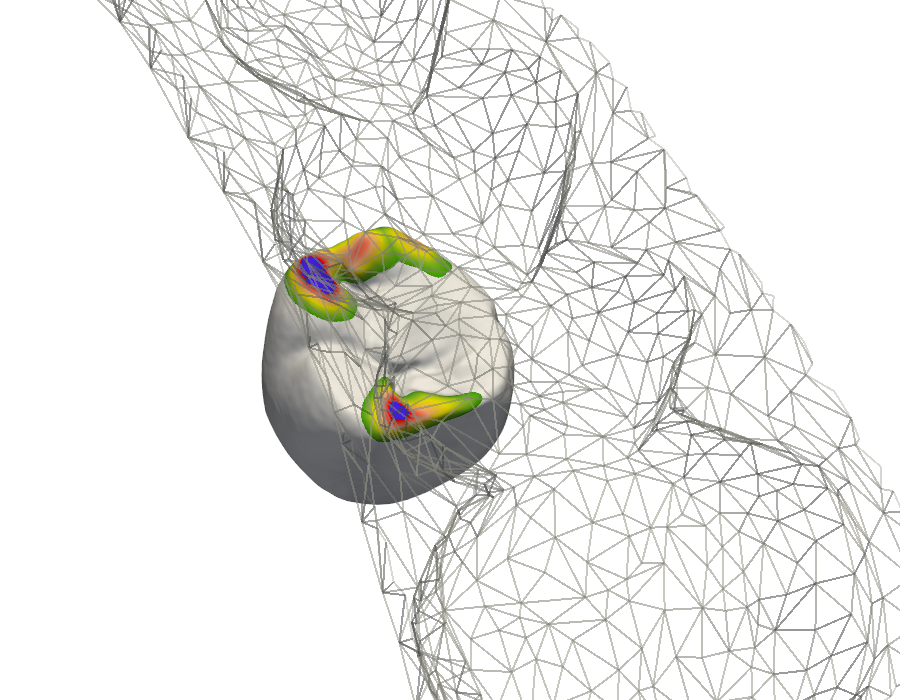
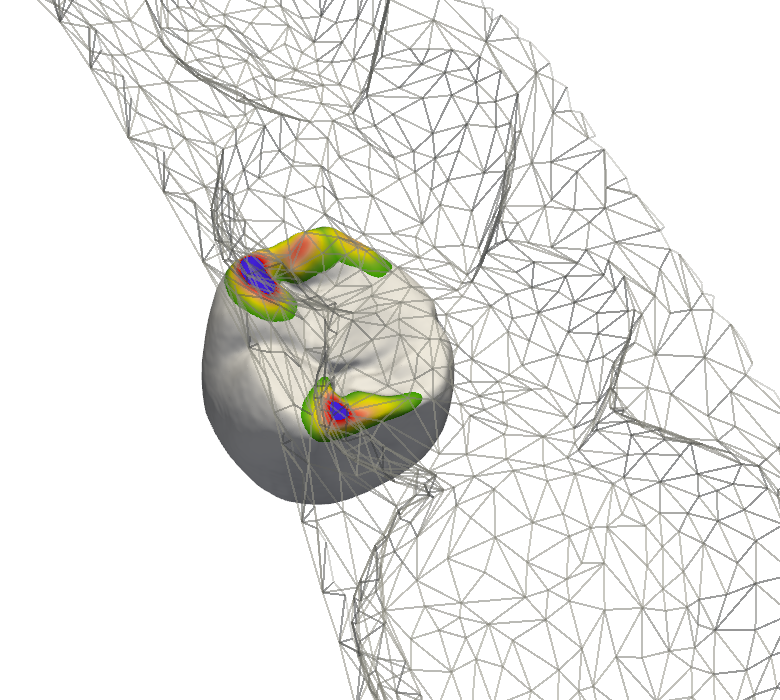
修复引用问题

Changed region(s): [[0.0615, 0.0, 1.0, 1.0]]

diff --git a/figures/ablation_occlusion/step3_merge_imgs.py b/figures/ablation_occlusion/step3_merge_imgs.py
@@ -23,24 +23,31 @@ def main() -> None:
     selection.add_argument("--cases", nargs="+", metavar="DIR", help="case folders in top-to-bottom order, relative to folder or absolute")
     selection.add_argument("--list", dest="case_list", type=Path, help="file listing case folders in top-to-bottom order")
     parser.add_argument("-o", "--output", type=Path, default=Path("merged_heatmaps.png"))
-    parser.add_argument("--gap", type=int, default=60, help="tile gap and outer margin (pixels)")
+    parser.add_argument("--gap", type=int, default=40, help="outer margin in pixels (default: %(default)s)")
+    # 图片的列间距
+    parser.add_argument("--column-gap", type=int, metavar="PX", default=320,
+                        help="horizontal gap between image columns in pixels (default: %(default)s)")
+    # 图片的行间距
+    parser.add_argument("--row-gap", type=int, metavar="PX", default=40,
+                        help="vertical gap between image rows in pixels (default: %(default)s)")
     # 上方文字和图片的距离
-    parser.add_argument("--header-gap", type=int, default=80, help="distance from the bottom of column label text to images (pixels)")
+    parser.add_argument("--header-gap", type=int, default=50, help="distance from the bottom of column label text to images (pixels)")
     parser.add_argument("--font-size", type=int, default=80, help="column label font size")
     parser.add_argument("--labels", nargs=3, default=("Reference Crown", "I-Opposing", "Full model"), metavar=("GT", "WITHOUT", "WITH"))
     parser.add_argument("--background", default="white")
     parser.add_argument("--clim", nargs="+", type=float, default=DEFAULT_LIMITS, help="clearance limits in mm: MAX or 0 MAX (default: 0 0.2); use the same limits as step2")
     parser.add_argument("--colorbar-font-size", type=int, default=80)
     parser.add_argument("--colorbar-unit-gap", type=int, default=30, help="vertical distance between (mm) and the top tick label (pixels)")
-    parser.add_argument("--colorbar-length", type=int, default=1200, help="vertical colorbar length; default is 70%% of image height")
-    parser.add_argument("--colorbar-thickness", type=int, default=40)
-    parser.add_argument("--colorbar-gap", type=int, default=100)
-    parser.add_argument("--colorbar-position", nargs=2, type=int, default=(3100,580), metavar=("X", "Y"), help="colorbar top-left position; default is right of images")
+    parser.add_argument("--colorbar-length", type=int, default=900, help="vertical colorbar length; default is 70%% of image height")
+    parser.add_argument("--colorbar-thickness", type=int, default=50)
+    parser.add_argument("--colorbar-gap", type=int, default=120)
+    parser.add_argument("--colorbar-position", nargs=2, type=int, 
+            default=(3200, 2130), metavar=("X", "Y"), help="colorbar top-left position; default is right of images")
     args = parser.parse_args()
     if len(args.clim) not in (1, 2): parser.error("--clim expects MAX or MIN MAX")
     vmin, vmax = (0.0, args.clim[0]) if len(args.clim) == 1 else args.clim
     if not all(math.isfinite(v) for v in (vmin, vmax)) or vmin != 0 or vmax <= 0: parser.error("--clim requires MIN=0 and finite MAX>0; negative distances use the penetration color")
-    if min(args.gap, args.header_gap, args.colorbar_gap, args.colorbar_unit_gap) < 0 or args.font_size <= 0: parser.error("gaps must be nonnegative and font-size must be positive")
+    if min(args.gap, args.row_gap, args.column_gap, args.header_gap, args.colorbar_gap, args.colorbar_unit_gap) < 0 or args.font_size <= 0: parser.error("gaps must be nonnegative and font-size must be positive")
     if args.colorbar_thickness <= 0 or args.colorbar_font_size <= 0: parser.error("colorbar dimensions and font size must be positive")
     root = args.folder.expanduser().resolve()
     if root.is_file():
@@ -79,8 +86,11 @@ def main() -> None:
     header_boxes = [font.getbbox(label, anchor="lt") for label in args.labels]
     header_text_height = max(box[3] for box in header_boxes)
     header_height = header_text_height + args.header_gap
-    image_height = len(rows) * tile_height + (len(rows) - 1) * args.gap
-    image_left = args.gap; image_right = image_left + 3 * tile_width + 2 * args.gap
+    row_stride = tile_height + args.row_gap
+    image_height = tile_height + (len(rows) - 1) * row_stride
+    column_stride = tile_width + args.column_gap
+    image_left = args.gap
+    image_right = image_left + 2 * column_stride + tile_width
     bar_length = args.colorbar_length or max(2, round(image_height * 0.7))
     if not 2 <= bar_length <= image_height: parser.error(f"colorbar-length must be between 2 and image region height ({image_height} pixels)")
     bar_x, bar_y = args.colorbar_position or (image_right + args.colorbar_gap, args.gap + header_height + image_height - bar_length)
@@ -99,13 +109,14 @@ def main() -> None:
     canvas_height = max(args.gap + header_height + image_height + args.gap, bar_y + bar_length + args.colorbar_font_size + args.gap)
     canvas = Image.new("RGB", (canvas_width, canvas_height), args.background); draw = ImageDraw.Draw(canvas)
     for column, label in enumerate(args.labels):
-        x = image_left + column * (tile_width + args.gap) + tile_width // 2
+        x = image_left + column * column_stride + tile_width // 2
         label_height = header_boxes[column][3]
         draw.text((x, args.gap + header_text_height - label_height), label, font=font, fill="black", anchor="mt")
     for row_index, row in enumerate(rows):
-        y = args.gap + header_height + row_index * (tile_height + args.gap)
+        y = args.gap + header_height + row_index * row_stride
         for column, image in enumerate(row):
-            x = image_left + column * (tile_width + args.gap); tile = ImageOps.contain(image, (tile_width, tile_height))
+            x = image_left + column * column_stride
+            tile = ImageOps.contain(image, (tile_width, tile_height))
             canvas.paste(tile, (x + (tile_width - tile.width) // 2, y + (tile_height - tile.height) // 2))
     draw.text((bar_x, unit_bottom), "(mm)", font=colorbar_font, fill="black", anchor="lb")
     # Negative distance is blue-violet. Clearance runs from red at zero

diff --git a/figures/ablation_occlusion/step2_render_heatmap.py b/figures/ablation_occlusion/step2_render_heatmap.py
@@ -93,7 +93,7 @@ def main() -> None:
         contact_values = values.astype(float, copy=True)
         contact_values[contact_values > vmax] = np.nan
         crown["surface_distance"] = contact_values
-        plotter = pv.Plotter(off_screen=True, window_size=(900, 700))
+        plotter = pv.Plotter(off_screen=True, window_size=(780, 700))
         plotter.set_background("white")
         plotter.add_mesh(wire_jaw, color="#a8aaa5", style="wireframe", line_width=2.0,
                          opacity=0.32, show_edges=True)

diff --git a/方案缺陷.md b/方案缺陷.md
@@ -1,0 +1,36 @@
+方案缺陷
+
+#### 1.MADCrowner
+
+- 牙体预备不足或形态不规则时，冠体几何推断会受到影响。
+- 口扫存在孔洞、缺失邻牙区域时，生成结果可能出现形态适配不足。
+- **缺少邻牙或对颌牙时，可能产生不正确的咬合接触**。
+- 水密表面重建会使颈缘附近出现过度延伸；去除后处理时，整体 Hausdorff 最大值由 1.046 mm 增至 4.016 mm，F-score 由 0.917 降至 0.830。
+- 基于回归损失的模型容易生成多个可接受冠形的“平滑平均”，导致**沟、窝等咬合面细节不足**。
+- CrownSegger 的边缘分割误差会传递到冠边缘；论文报告的是边缘 Hausdorff 距离 0.328/0.545 mm，并不是 Margin P95。
+- 数据集主要覆盖前磨牙和磨牙，因此**切牙、尖牙上的泛化能力未充分验证**。
+
+#### 2. VBCD
+
+- 体素化会**丢失细小几何细节**，并产生量化误差。
+- DPSR 与 Marching Cubes 可能引入**表面重建扰动**，论文没有单独报告其 HD95 或边缘误差。
+- 高分辨率 \(128^3\) 体素输入带来较高显存消耗。
+- 数据是单牙缺失、约 2 cm 局部口扫区域，超出该输入范围的泛化能力仍未验证。
+- Fig. 3 明确称没有发现显著咬合关系破坏，因此不能把**咬合缺陷**作为该论文已证实的问题。
+
+#### 3. DMCv2
+
+- Transformer 的全局感受野可能牺牲局部细节，导致**细沟槽、突起等结构预测不足**。
+- 输入点云没有面片和拓扑信息，复杂牙面细节的网格重建仍可能不充分。
+- **冠体比真实冠略大或略小**，可能影响边缘适合和功能。
+- 不使用 margin-line loss 时，冠边缘可能不能贴合，甚至超出真实冠边界；加入该损失后明显改善。
+- **邻牙交叠误差存在左右不对称**
+- 论文尚未把接触点和完整邻牙/对颌功能纳入统一功能损失，因此**咬合和邻接接触仍需进一步验证**。
+
+#### 4. VF-Net
+
+- VAE 的典型过度平滑会使**咬合面的尖峰、沟裂和窝形态被削弱**，可能影响牙冠功能和舒适性。
+- 2D 平面折叠到 3D 点云的拓扑先验，在拓扑不匹配时可能造成潜空间不连续和新形状采样困难。
+- 论文展示了边界和分割伪影风险；其数据包含开放网格、邻牙遮挡以及部分矫治器附件。
+- 没有制**备牙、颈缘线、邻牙接触或对颌约束**，因此不能据此评价冠边缘适合、咬合接触或 Margin P95。
+- FoldingNet 对比方法出现网格孔洞和相交面；VF-Net 可避免这类明显伪影，但论文仍明确指出其重建结果容易过度平滑。
